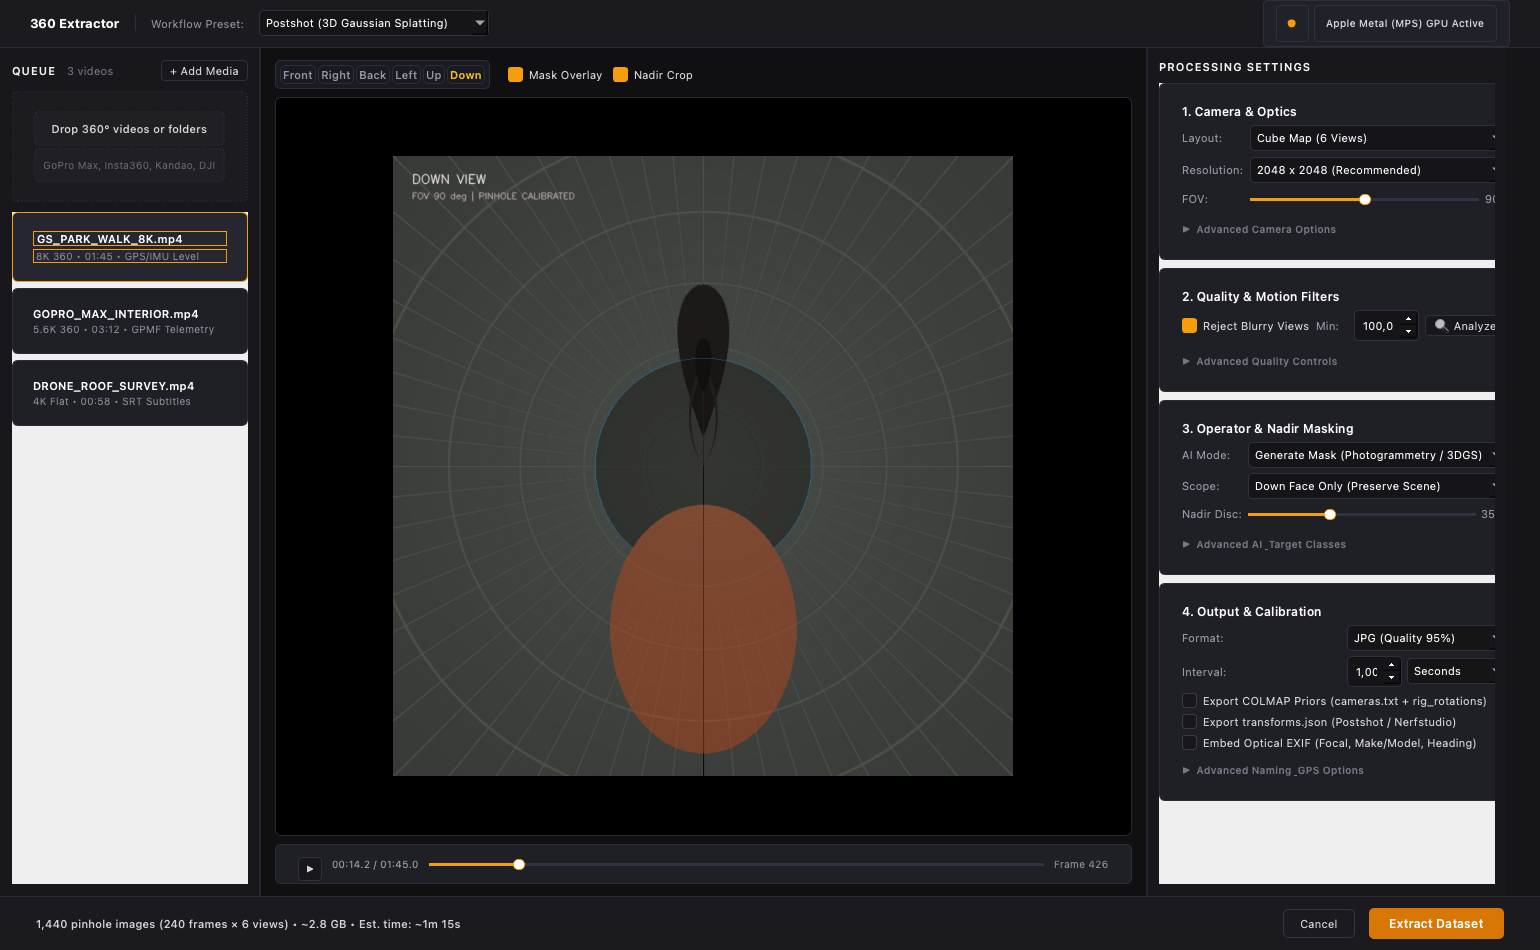
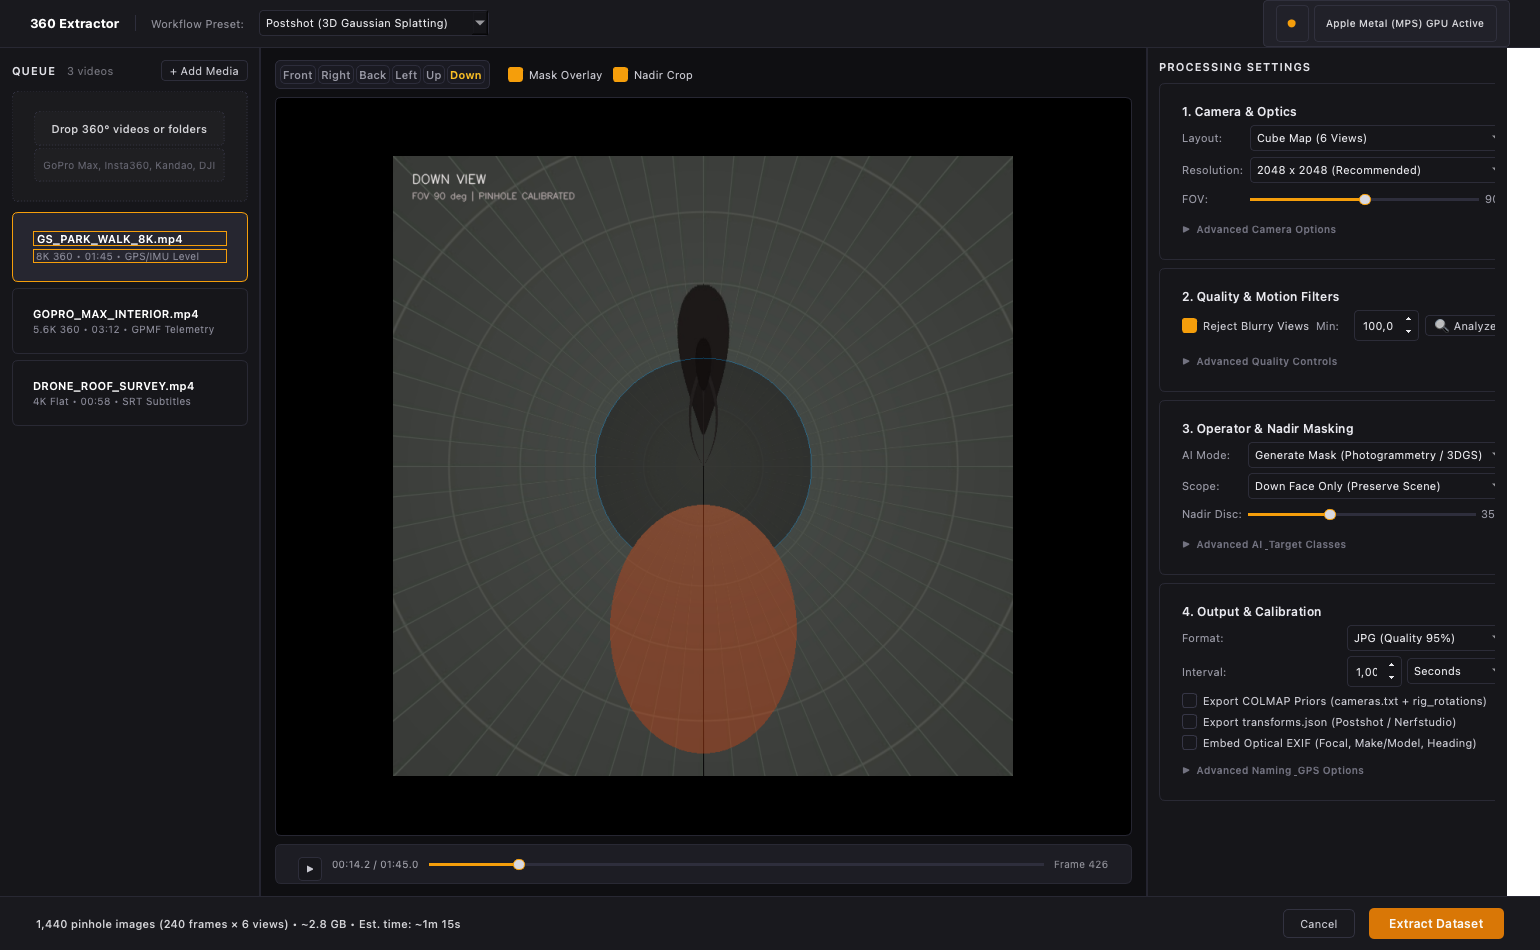
fix(ui): eliminate white scrollarea bleed and soften white contrast across entire UI

diff --git a/scripts/mockup_studio_ui.py b/scripts/mockup_studio_ui.py
@@ -160,55 +160,64 @@ class StudioMockupWindow(QMainWindow):
         # Theme A: Graphite & Warm Amber (#F59E0B / #D97706)
         self.setStyleSheet("""
             QMainWindow {
-                background-color: #151518;
-                color: #F4F4F6;
+                background-color: #141417;
+                color: #E6E6EA;
             }
             QWidget {
                 font-family: -apple-system, BlinkMacSystemFont, "SF Pro Text", "Segoe UI", Roboto, sans-serif;
                 font-size: 11px;
                 color: #9898A4;
+                background-color: transparent;
+            }
+            /* Scroll Areas and Viewports (Fix light gray bleed) */
+            QScrollArea, QScrollArea > QWidget, QScrollArea > QWidget > QWidget {
+                background-color: transparent;
+                border: none;
+            }
+            QScrollArea::viewport {
+                background-color: transparent;
             }
             QFrame#topNav {
-                background-color: #1A1A1F;
-                border-bottom: 1px solid #2B2B35;
+                background-color: #19191E;
+                border-bottom: 1px solid #282833;
                 padding: 0px 14px;
             }
             QFrame#leftSidebar {
-                background-color: #17171C;
-                border-right: 1px solid #282832;
+                background-color: #16161A;
+                border-right: 1px solid #262630;
             }
             QFrame#centerArea {
-                background-color: #101013;
+                background-color: #0F0F12;
             }
             QFrame#rightInspector {
-                background-color: #17171C;
-                border-left: 1px solid #282832;
+                background-color: #16161A;
+                border-left: 1px solid #262630;
             }
             QFrame#viewportContainer {
                 background-color: #000000;
-                border: 1px solid #2A2A35;
+                border: 1px solid #262632;
                 border-radius: 6px;
             }
             QFrame#hudBar {
-                background-color: #1A1A1F;
-                border-top: 1px solid #2B2B35;
+                background-color: #19191E;
+                border-top: 1px solid #282833;
                 padding: 8px 18px;
             }
             QFrame#inspectorCard {
-                background-color: #1F1F26;
-                border: 1px solid #2C2C38;
+                background-color: #1D1D24;
+                border: 1px solid #292934;
                 border-radius: 6px;
                 padding: 10px 12px;
             }
             QLabel#sectionHeader {
-                color: #F4F4F6;
+                color: #E2E2E8;
                 font-weight: 600;
                 font-size: 11px;
                 text-transform: uppercase;
                 letter-spacing: 0.8px;
             }
             QLabel#cardTitle {
-                color: #FAFAFA;
+                color: #E8E8EE;
                 font-weight: 600;
                 font-size: 12px;
             }
@@ -223,8 +232,8 @@ class StudioMockupWindow(QMainWindow):
                 font-size: 11px;
             }
             QPushButton#segmentBtn:hover {
-                color: #FFFFFF;
-                background-color: rgba(255, 255, 255, 0.06);
+                color: #E8E8EE;
+                background-color: rgba(255, 255, 255, 0.05);
             }
             QPushButton#segmentBtn[active="true"] {
                 background-color: rgba(245, 158, 11, 0.15);
@@ -236,7 +245,7 @@ class StudioMockupWindow(QMainWindow):
             QPushButton#disclosureBtn {
                 background-color: transparent;
                 border: none;
-                color: #787885;
+                color: #727280;
                 font-weight: 600;
                 font-size: 10px;
                 text-align: left;
@@ -251,7 +260,7 @@ class StudioMockupWindow(QMainWindow):
             /* Buttons */
             QPushButton#primaryActionBtn {
                 background-color: #D97706;
-                color: #FFFFFF;
+                color: #FAF9F6;
                 font-weight: 600;
                 font-size: 12px;
                 border-radius: 5px;
@@ -263,35 +272,35 @@ class StudioMockupWindow(QMainWindow):
             }
             QPushButton#secondaryActionBtn {
                 background-color: transparent;
-                border: 1px solid #363645;
+                border: 1px solid #323240;
                 border-radius: 5px;
-                color: #D4D4D8;
+                color: #C8C8D0;
                 padding: 7px 16px;
                 font-size: 11px;
             }
             QPushButton#secondaryActionBtn:hover {
-                background-color: #242430;
-                color: #FFFFFF;
+                background-color: #22222B;
+                color: #E8E8EE;
             }
             QPushButton#toolBtn {
                 background-color: #17171C;
-                border: 1px solid #30303E;
+                border: 1px solid #2D2D3A;
                 border-radius: 4px;
-                color: #D4D4D8;
+                color: #C8C8D0;
                 padding: 3px 8px;
                 font-size: 11px;
             }
             QPushButton#toolBtn:hover {
                 border-color: #F59E0B;
-                color: #FFFFFF;
+                color: #E8E8EE;
             }
             /* Inputs */
             QComboBox, QSpinBox, QDoubleSpinBox, QLineEdit {
-                background-color: #151518;
-                border: 1px solid #30303E;
+                background-color: #151519;
+                border: 1px solid #2C2C38;
                 border-radius: 4px;
                 padding: 4px 6px;
-                color: #FAFAFA;
+                color: #E6E6EA;
                 font-size: 11px;
             }
             QComboBox:focus, QSpinBox:focus, QLineEdit:focus {
@@ -299,7 +308,7 @@ class StudioMockupWindow(QMainWindow):
             }
             QSlider::groove:horizontal {
                 height: 3px;
-                background: #323240;
+                background: #2E2E3C;
                 border-radius: 1.5px;
             }
             QSlider::sub-page:horizontal {
@@ -307,7 +316,7 @@ class StudioMockupWindow(QMainWindow):
                 border-radius: 1.5px;
             }
             QSlider::handle:horizontal {
-                background: #FFFFFF;
+                background: #D8D8E0;
                 border: 1px solid #F59E0B;
                 width: 10px;
                 margin-top: -3.5px;
@@ -315,7 +324,7 @@ class StudioMockupWindow(QMainWindow):
                 border-radius: 5px;
             }
             QCheckBox {
-                color: #D4D4D8;
+                color: #C8C8D0;
                 spacing: 6px;
                 font-size: 11px;
             }
@@ -323,7 +332,7 @@ class StudioMockupWindow(QMainWindow):
                 width: 13px;
                 height: 13px;
                 border-radius: 3px;
-                border: 1px solid #3A3A4A;
+                border: 1px solid #363646;
                 background-color: #17171C;
             }
             QCheckBox::indicator:checked {
@@ -336,7 +345,7 @@ class StudioMockupWindow(QMainWindow):
                 width: 4px;
             }
             QScrollBar::handle:vertical {
-                background: #323242;
+                background: #2E2E3E;
                 border-radius: 2px;
             }
         """)
@@ -481,9 +490,11 @@ class StudioMockupWindow(QMainWindow):
         scroll = QScrollArea()
         scroll.setWidgetResizable(True)
         scroll.setHorizontalScrollBarPolicy(Qt.ScrollBarAlwaysOff)
-        scroll.setStyleSheet("QScrollArea { border: none; background: transparent; }")
+        scroll.setStyleSheet("QScrollArea, QScrollArea > QWidget { border: none; background-color: transparent; }")
 
         cards_container = QWidget()
+        cards_container.setObjectName("cardsContainer")
+        cards_container.setStyleSheet("background-color: transparent;")
         cards_layout = QVBoxLayout(cards_container)
         cards_layout.setContentsMargins(0, 0, 0, 0)
         cards_layout.setSpacing(6)
@@ -686,9 +697,11 @@ class StudioMockupWindow(QMainWindow):
         scroll = QScrollArea()
         scroll.setWidgetResizable(True)
         scroll.setHorizontalScrollBarPolicy(Qt.ScrollBarAlwaysOff)
-        scroll.setStyleSheet("QScrollArea { border: none; background: transparent; }")
+        scroll.setStyleSheet("QScrollArea, QScrollArea > QWidget { border: none; background-color: transparent; }")
 
         container = QWidget()
+        container.setObjectName("inspectorContainer")
+        container.setStyleSheet("background-color: transparent;")
         c_layout = QVBoxLayout(container)
         c_layout.setContentsMargins(0, 0, 4, 0)
         c_layout.setSpacing(8)
